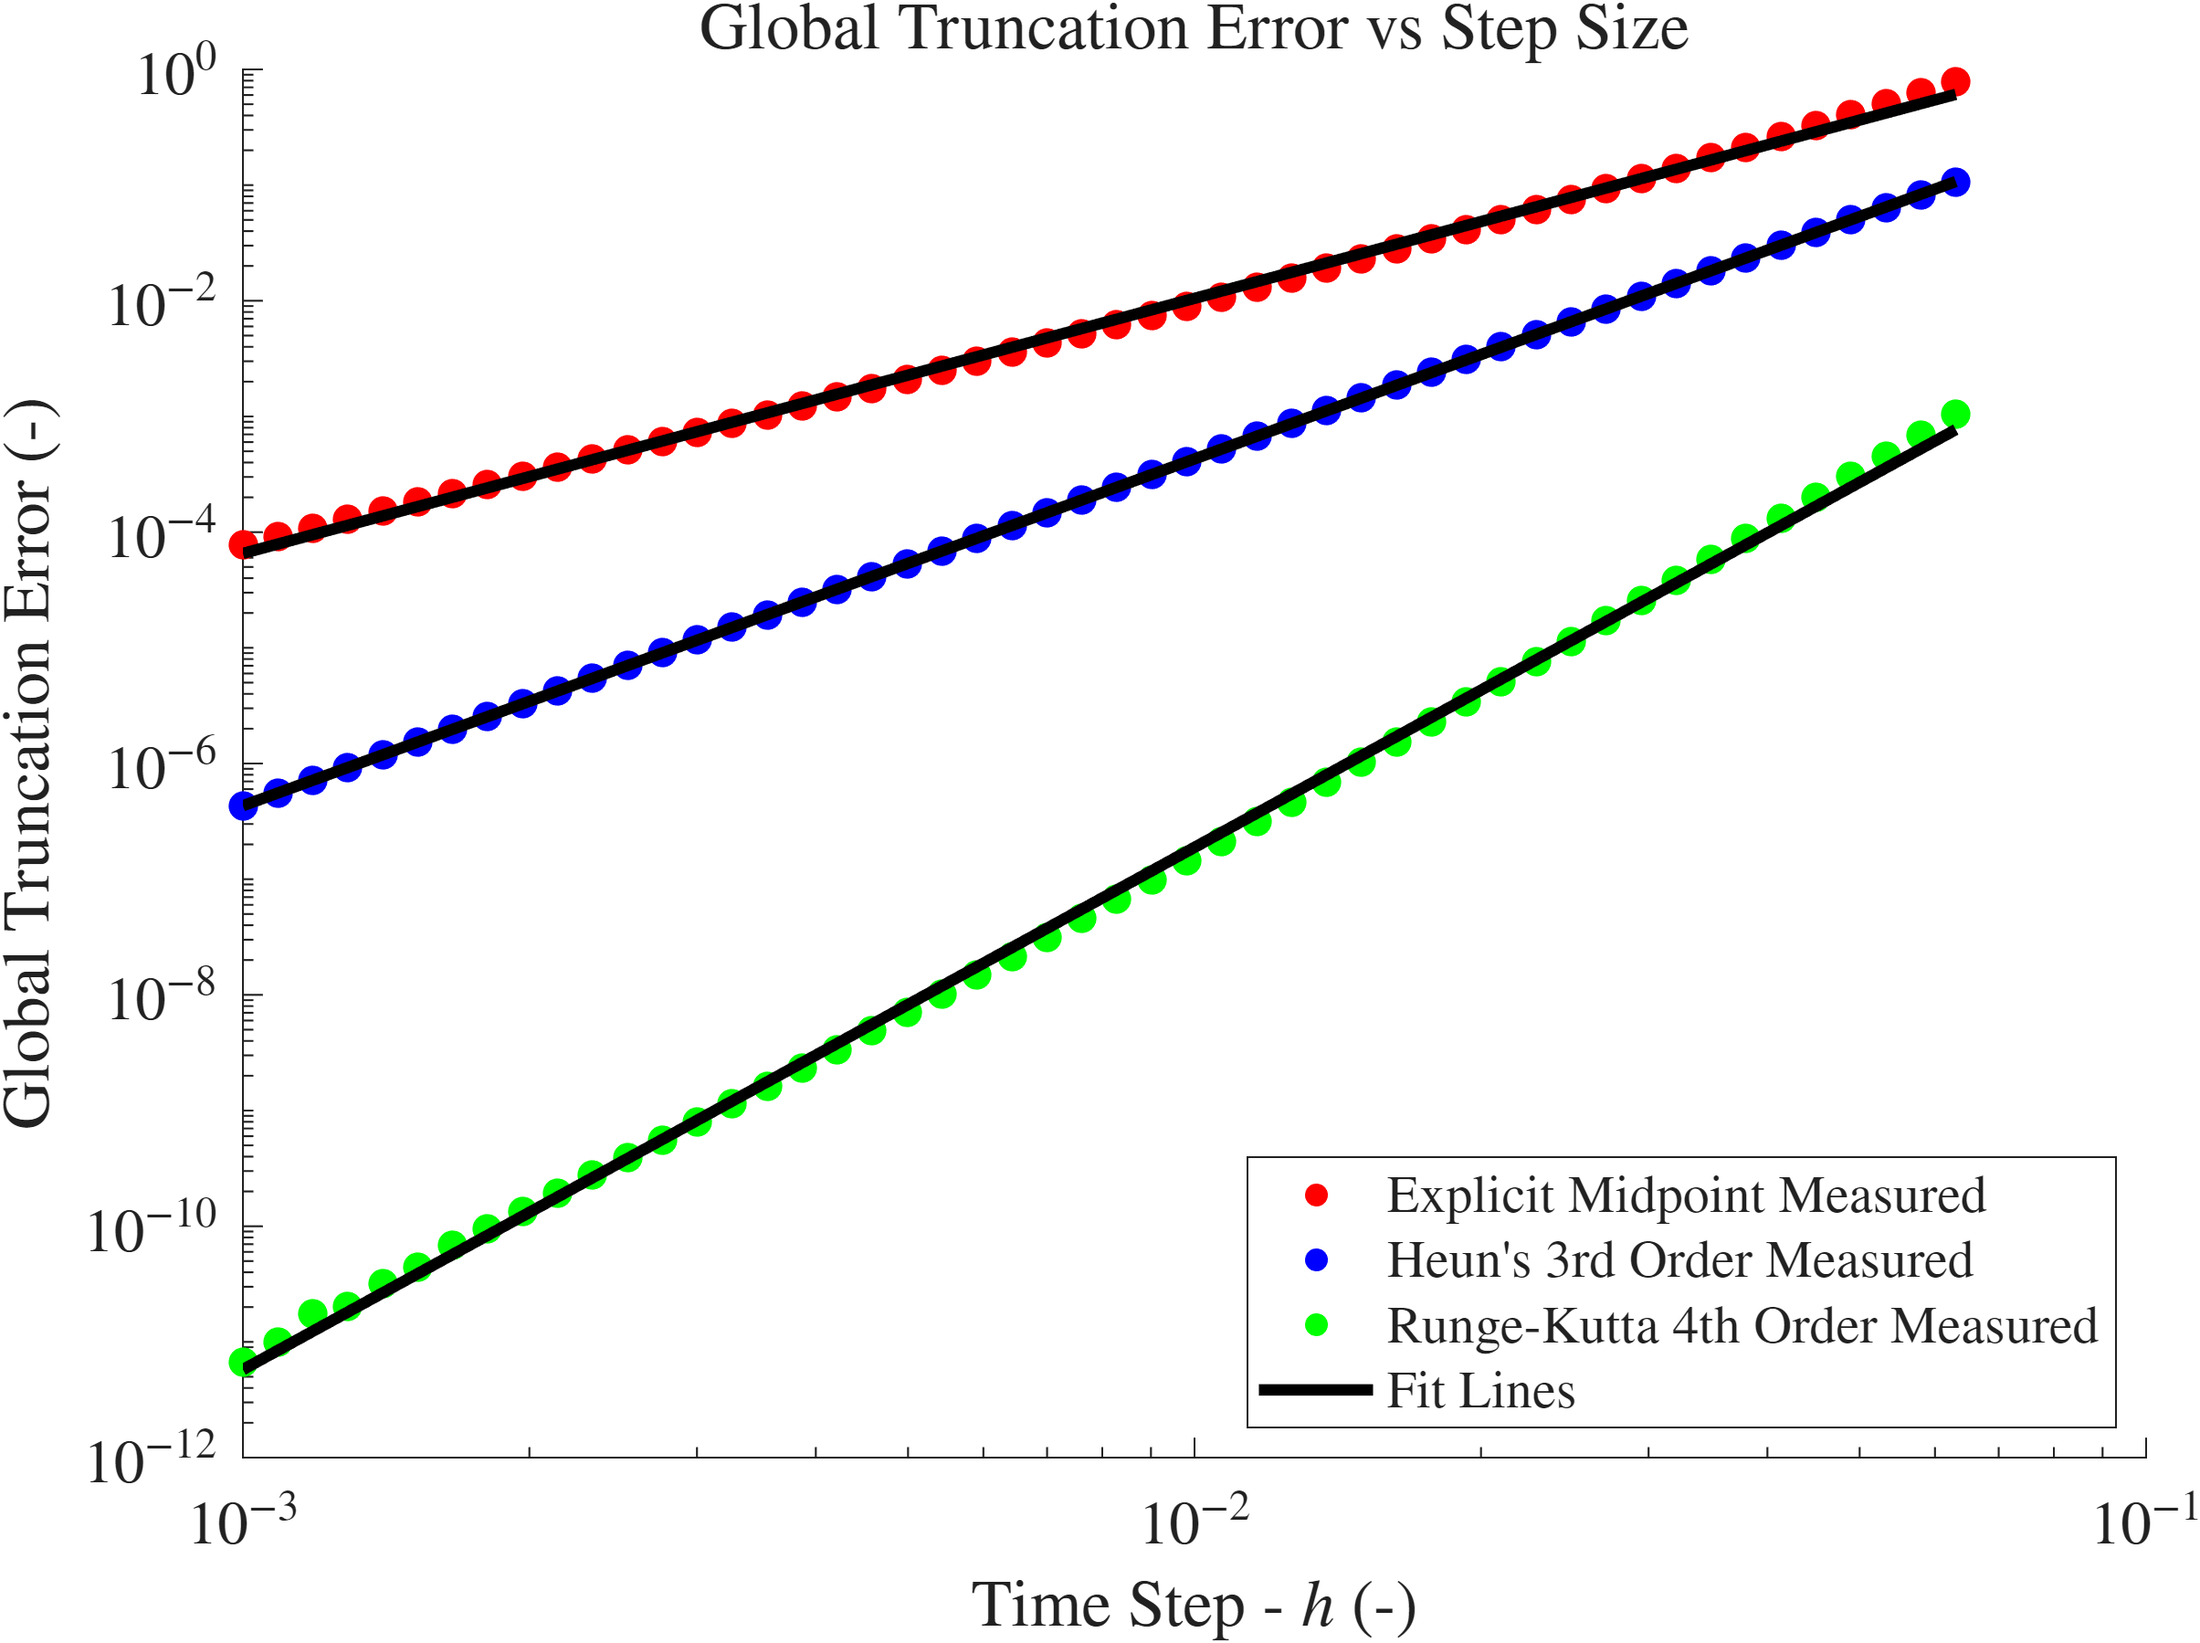
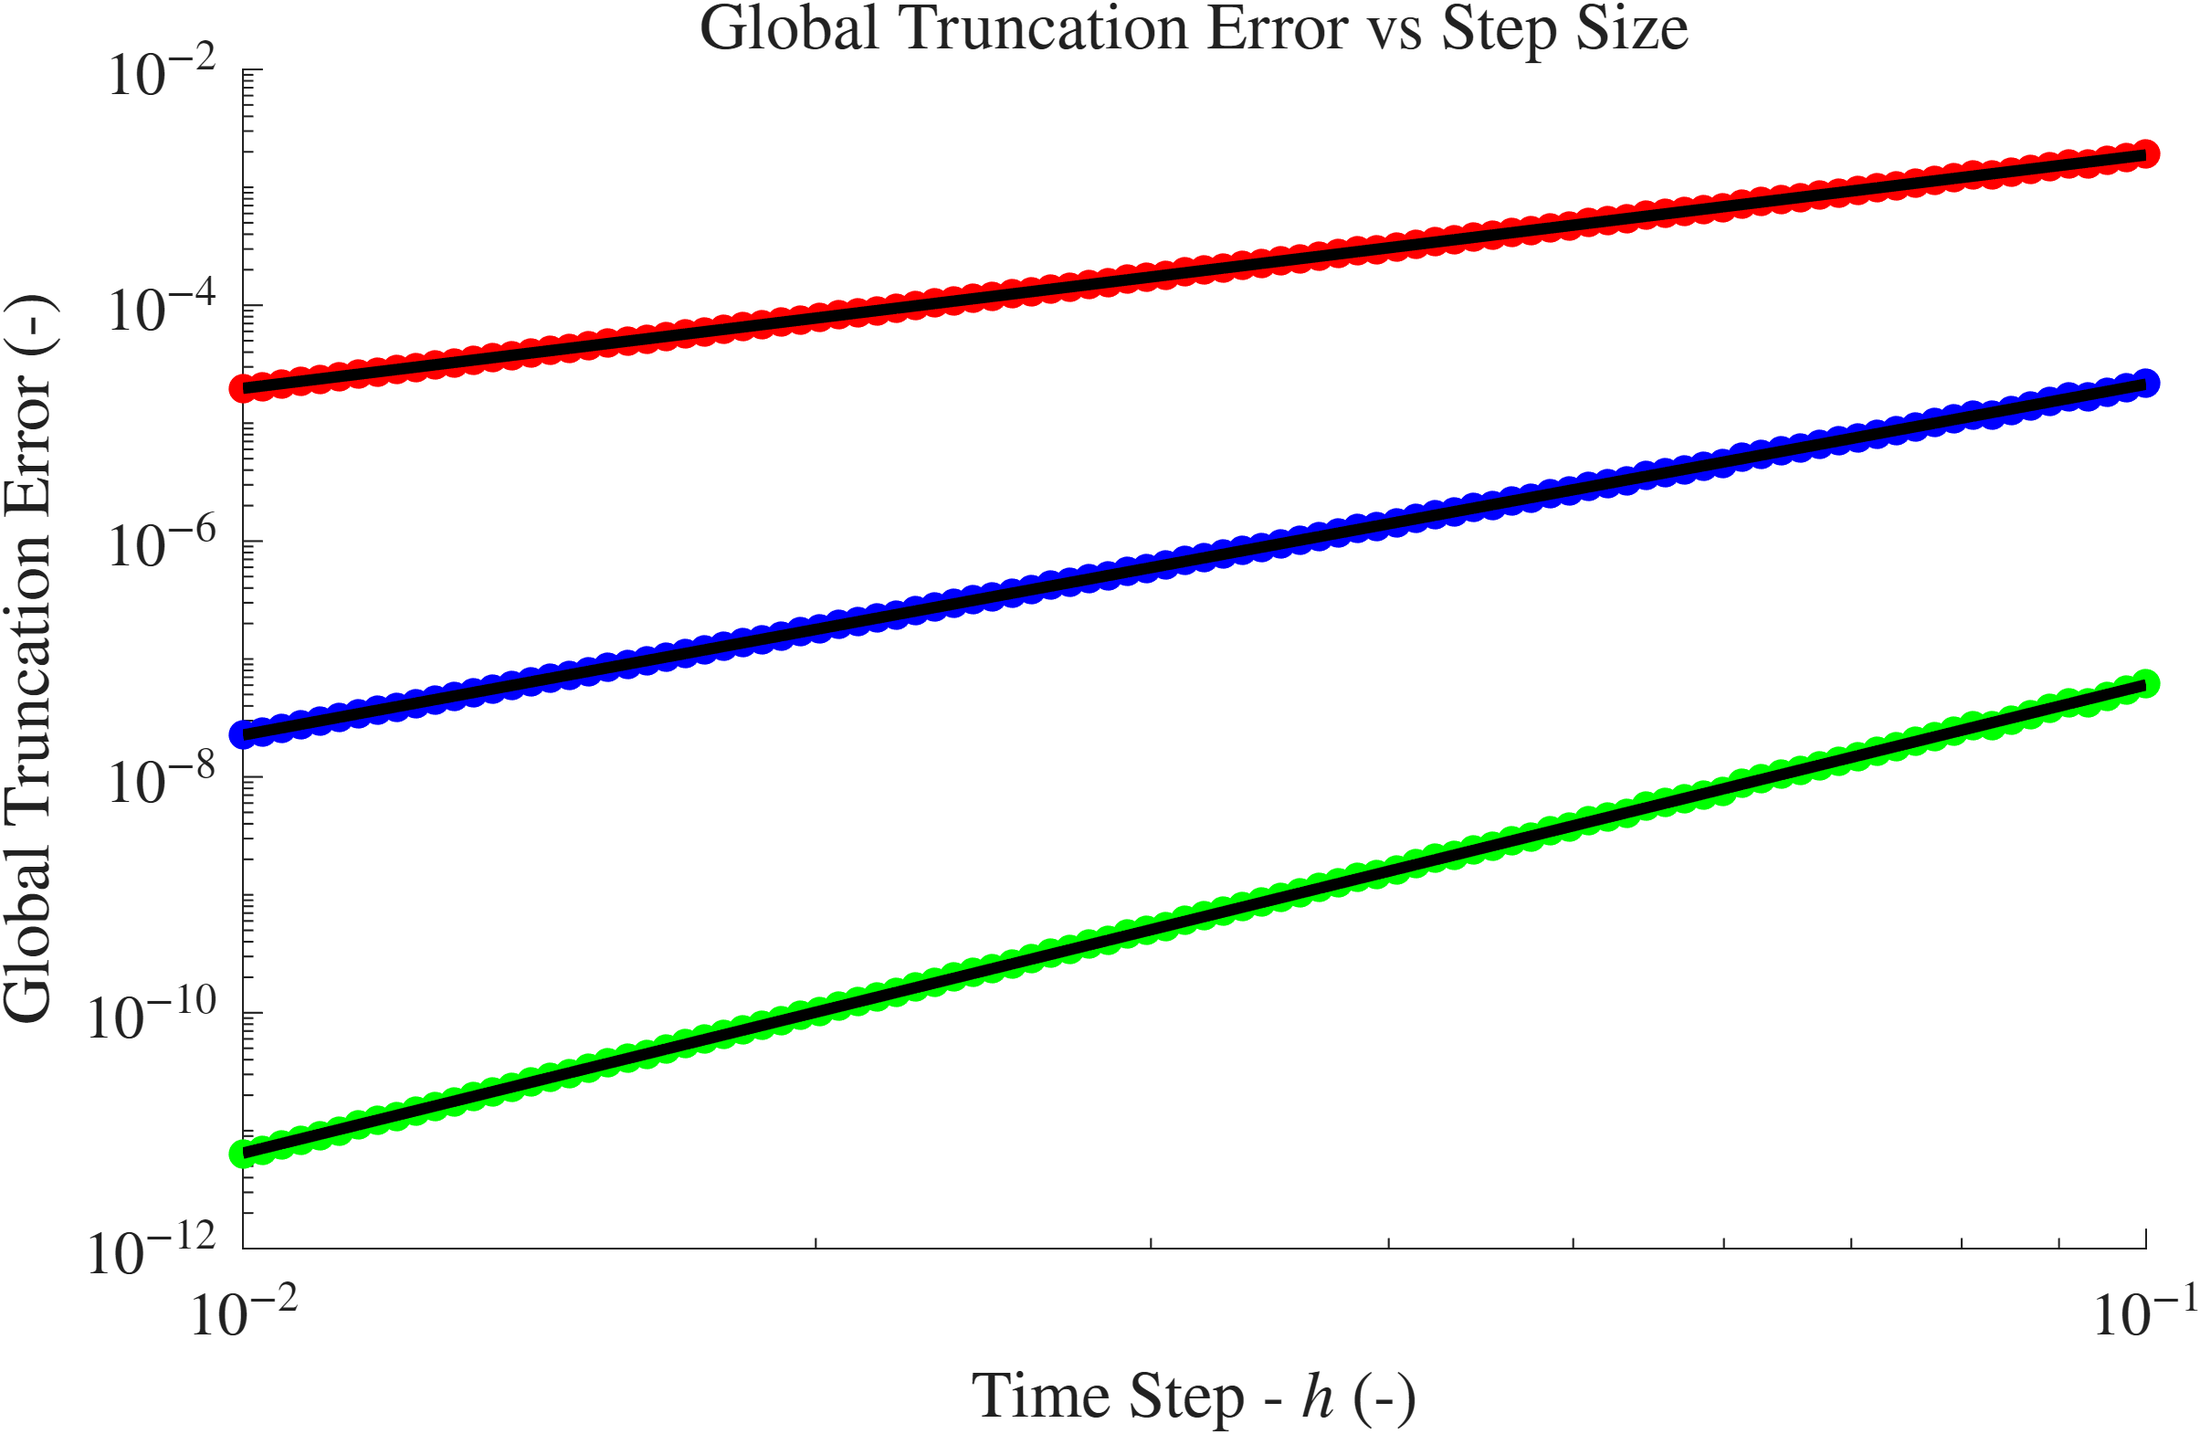
changed global trunc error windowing

diff --git a/rk_testing_planet.m b/rk_testing_planet.m
@@ -86,8 +86,12 @@ gravity_wrapper = @(t, V) gravity_rate_func(t, V, orbit_params);
 
 
 
-t_ref = [0, 30];
-h_step = logspace(-3, -1.2, 50);
+t_ref = [0, 3];
+h_step = logspace(-2, -1, 100);
+t_range = linspace(0,3,100);
+
+V_list = compute_planetary_motion(t_range,V0,orbit_params);
+
 
 XA = V0;
 gt = V_list(end,:);
@@ -98,9 +102,9 @@ rk4_err_list = [];
 
 
 for i = 1:length(h_step)
-    [emp_t_list,emp_X_list,emp_h_avg, emp_num_evals] = explicit_RK_fixed_step_integration(gravity_wrapper,tspan,V0,h_step(i),emp_struct);
-    [h_t_list,h_X_list,h_h_avg, h_num_evals] = explicit_RK_fixed_step_integration(gravity_wrapper,tspan,V0,h_step(i),h_struct);
-    [rk4_t_list,rk4_X_list,rk4_h_avg, rk4_num_evals] = explicit_RK_fixed_step_integration(gravity_wrapper,tspan,V0,h_step(i),rk4_struct);
+    [emp_t_list,emp_X_list,emp_h_avg, emp_num_evals] = explicit_RK_fixed_step_integration(gravity_wrapper,t_ref,V0,h_step(i),emp_struct);
+    [h_t_list,h_X_list,h_h_avg, h_num_evals] = explicit_RK_fixed_step_integration(gravity_wrapper,t_ref,V0,h_step(i),h_struct);
+    [rk4_t_list,rk4_X_list,rk4_h_avg, rk4_num_evals] = explicit_RK_fixed_step_integration(gravity_wrapper,t_ref,V0,h_step(i),rk4_struct);
     
     XB_emp = emp_X_list(:,end);
     XB_h = h_X_list(:,end);
@@ -158,7 +162,7 @@ plot(h_step, f_rk4, '-', LineWidth=3, Color="k")
 hold off
 set(gca,'xscale','log')
 set(gca,'yscale','log')
-legend(["Explicit Midpoint Measured","Heun's 3rd Order Measured", "Runge-Kutta 4th Order Measured", "Fit Lines"], Location = "southeast", Interpreter="latex", FontSize=14)
+% legend(["Explicit Midpoint Measured","Heun's 3rd Order Measured", "Runge-Kutta 4th Order Measured", "Fit Lines"], Location = "southeast", Interpreter="latex", FontSize=14)
 xlabel("Time Step - $h$ (-)", Interpreter="latex", FontSize=14)
 ylabel("Global Truncation Error (-)", Interpreter="latex", FontSize=14)
 %axis([0 4*pi -1.5 1.5])
